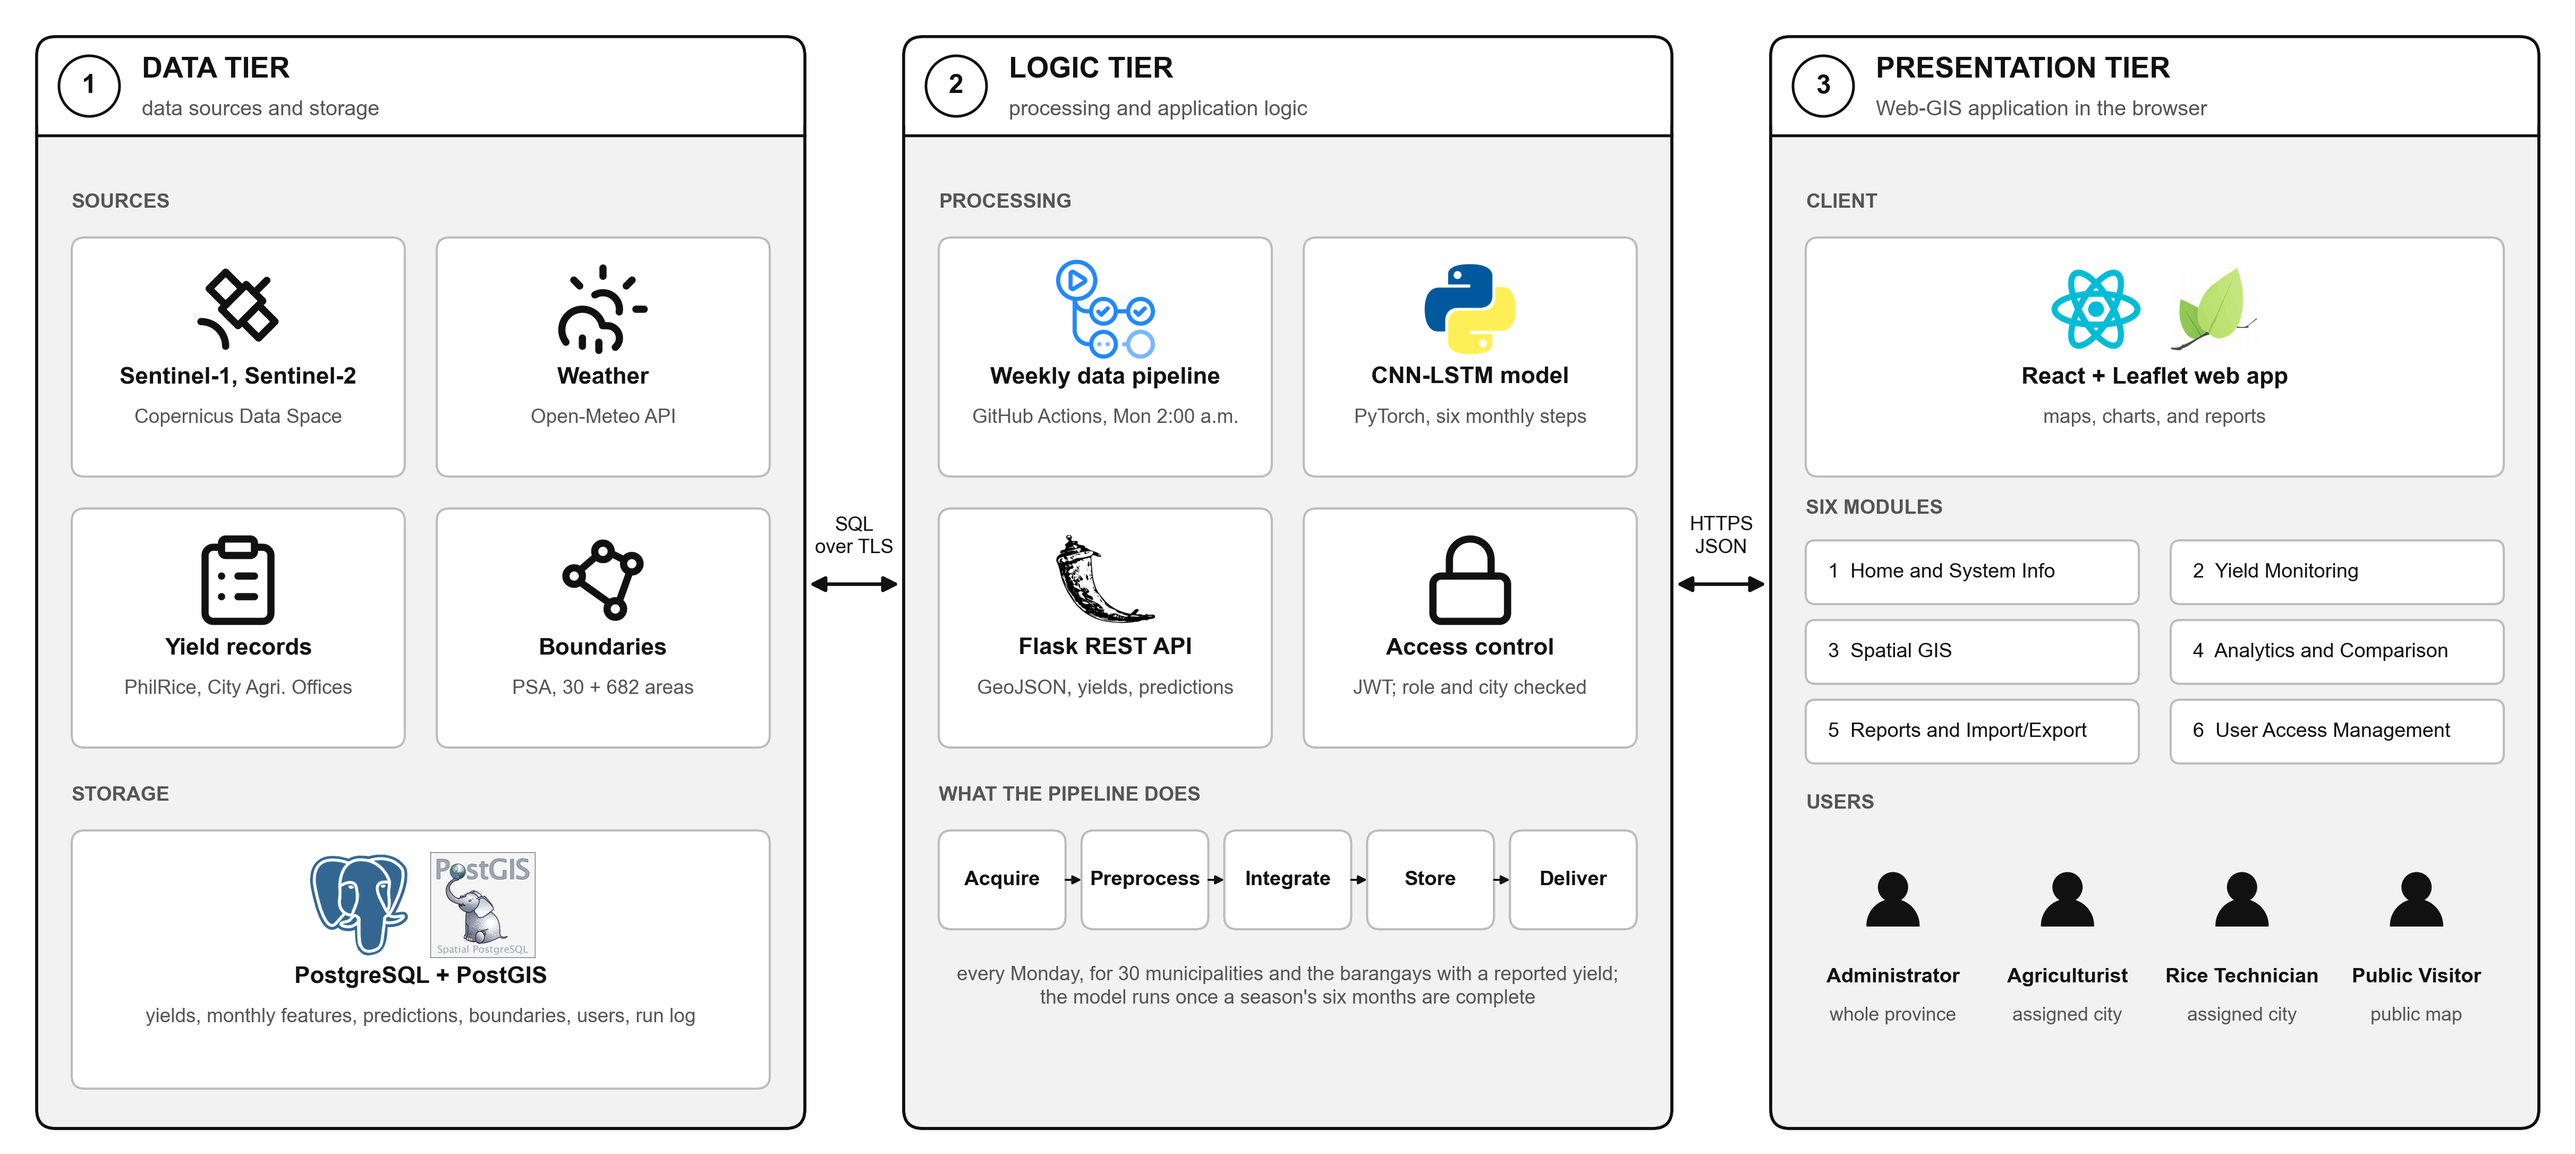
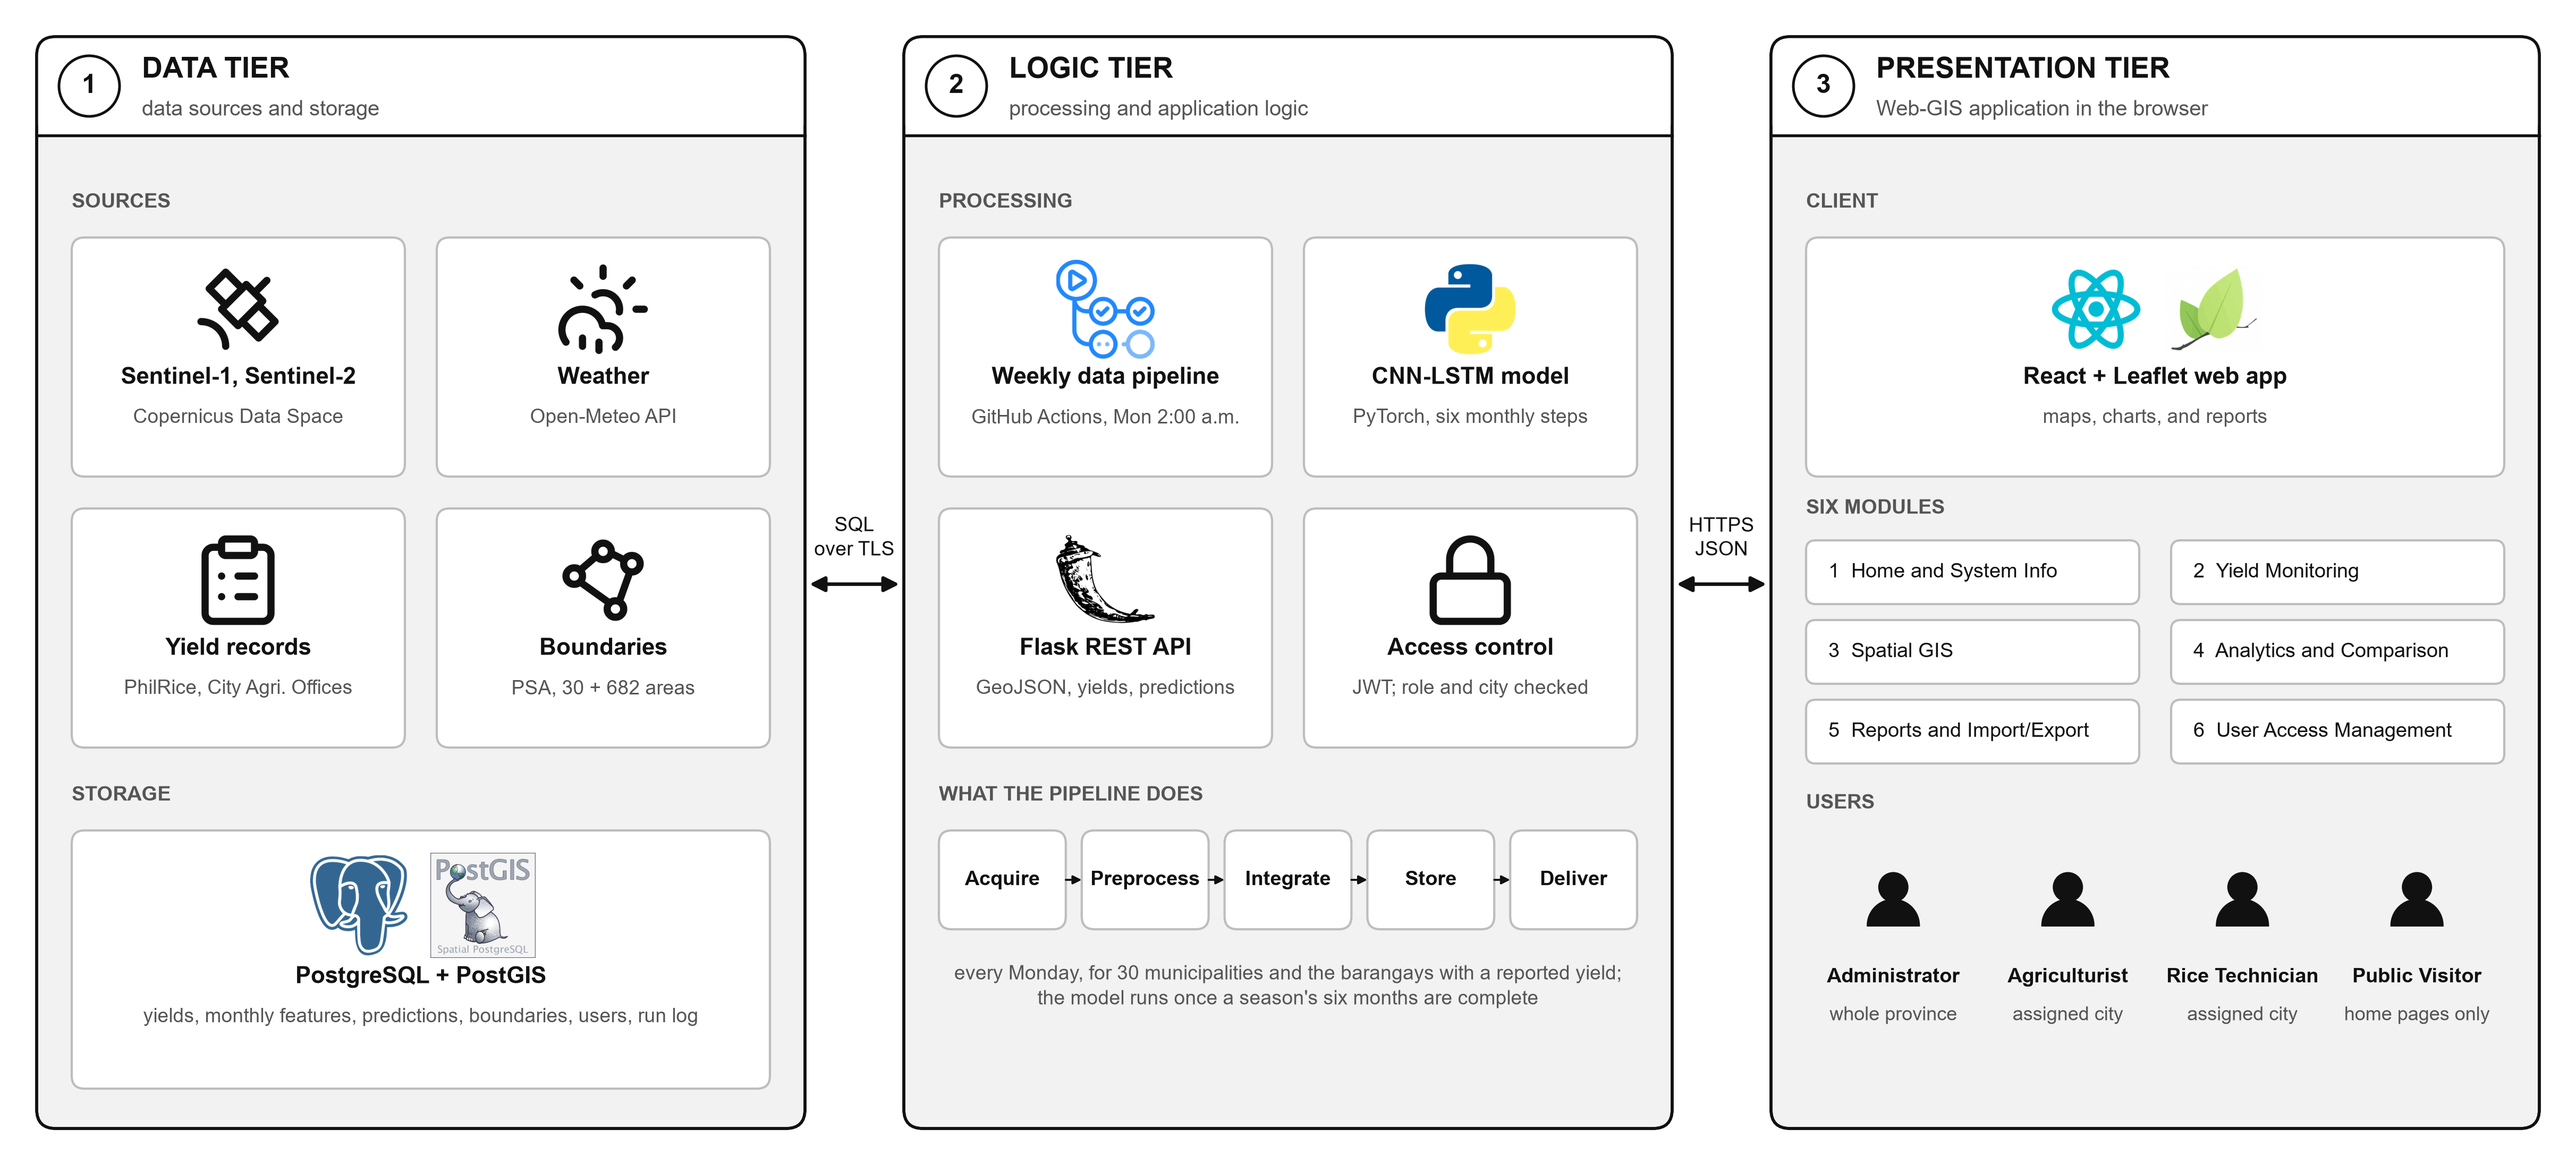
figures: public visitor limited to the home pages in the architecture, use case, and data flow diagrams

diff --git a/docs/figures/make_use_case.py b/docs/figures/make_use_case.py
@@ -1,0 +1,156 @@
+"""
+make_use_case.py
+================
+
+UML use case diagram of AgriKA-GIS for the defense slides, drawn from the route
+guards in src/App.jsx, NAV_BY_ROLE in src/components/layout/DashboardSidebar.jsx and
+what each module page offers:
+
+    administrator     monitoring, map, compare, reports and import, user management
+    agriculturist     monitoring, map, compare, reports and import (assigned city)
+    rice_technician   monitoring, map, reports and import (assigned city)
+    public visitor    home pages only (post-defense revision: the yield map is for signed-in users)
+
+Drawn like the earlier Figure 11: black and white, a tall system boundary, round
+use cases, arrows from the actors, and <<include>> steps on the right.
+
+    fig_use_case.png
+
+Usage
+    python docs/figures/make_use_case.py
+"""
+import math
+import os
+import textwrap
+
+import matplotlib
+
+matplotlib.use("Agg")
+import matplotlib.pyplot as plt
+from matplotlib.patches import Circle, FancyArrowPatch, Rectangle
+
+HERE = os.path.dirname(os.path.abspath(__file__))
+plt.rcParams.update({"font.family": ["Arial", "DejaVu Sans"]})
+
+INK = "black"
+W_IN, H_IN = 5.6, 7.6
+
+fig = plt.figure(figsize=(W_IN, H_IN), dpi=300)
+ax = fig.add_axes([0, 0, 1, 1])
+ax.set_xlim(0, W_IN)
+ax.set_ylim(0, H_IN)
+ax.set_aspect("equal")
+ax.axis("off")
+
+# tall system boundary
+BX0, BX1, BY0, BY1 = 1.45, 5.5, 0.05, 7.55
+ax.add_patch(Rectangle((BX0, BY0), BX1 - BX0, BY1 - BY0, fc="white", ec=INK, lw=1.0, zorder=0))
+ax.text((BX0 + BX1) / 2, BY1 - 0.18, "AgriKA-GIS", ha="center", va="center", fontsize=10, fontweight="bold")
+
+# base use cases (left column) and included steps (right column), top to bottom
+BASE = [
+    "View Home and System Information",
+    "Log In to Portal",
+    "View Rice Yield Heatmap",
+    "Monitor Rice Yield",
+    "Import Yield Records",
+    "Generate Yield Reports",
+    "Analyze and Compare Yields",
+    "Manage User Accounts",
+]
+INCL = [
+    "Verify Role and Assigned City",
+    "Search Municipality or Barangay",
+    "Switch Observed, Predicted, Residual",
+    "Apply Season and Year Filters",
+    "View Historical Trends",
+    "Validate and Preview Rows",
+    "Export as PDF, Excel, or CSV",
+    "Generate Comparison Charts",
+    "Assign Role and Municipality",
+]
+INCLUDES = [
+    ("Log In to Portal", "Verify Role and Assigned City"),
+    ("View Rice Yield Heatmap", "Search Municipality or Barangay"),
+    ("View Rice Yield Heatmap", "Switch Observed, Predicted, Residual"),
+    ("View Rice Yield Heatmap", "Apply Season and Year Filters"),
+    ("Monitor Rice Yield", "Apply Season and Year Filters"),
+    ("Monitor Rice Yield", "View Historical Trends"),
+    ("Import Yield Records", "Validate and Preview Rows"),
+    ("Generate Yield Reports", "Export as PDF, Excel, or CSV"),
+    ("Analyze and Compare Yields", "Generate Comparison Charts"),
+    ("Manage User Accounts", "Assign Role and Municipality"),
+]
+
+POS = {}
+
+
+def usecase(name, cx, cy, r, fs):
+    ax.add_patch(Circle((cx, cy), r, fc="white", ec=INK, lw=0.9, zorder=2))
+    ax.text(cx, cy, textwrap.fill(name, 12), ha="center", va="center", fontsize=fs,
+            linespacing=1.1, zorder=3)
+    POS[name] = (cx, cy, r)
+
+
+R_BASE, R_INCL = 0.40, 0.37
+for i, name in enumerate(BASE):
+    usecase(name, 2.45, 6.85 - i * 0.905, R_BASE, 7.6)
+for i, name in enumerate(INCL):
+    usecase(name, 4.55, 6.92 - i * 0.81, R_INCL, 7.0)
+
+
+def rim(name, toward, max_deg=30):
+    """Point on the circle facing `toward`, kept within max_deg of the left/right edge
+    so a line never cuts the neighbouring circles."""
+    cx, cy, r = POS[name]
+    left = toward[0] < cx
+    ang = math.degrees(math.atan2(toward[1] - cy, abs(toward[0] - cx)))
+    ang = max(-max_deg, min(max_deg, ang))
+    a = math.radians(ang)
+    return (cx - r * math.cos(a) if left else cx + r * math.cos(a)), cy + r * math.sin(a)
+
+
+def arrow(a, b, dashed=False):
+    ax.add_patch(FancyArrowPatch(a, b, arrowstyle="-|>,head_length=5,head_width=2.6", color=INK,
+                                 lw=0.75, linestyle=(0, (3, 2)) if dashed else "-", zorder=1,
+                                 shrinkA=0, shrinkB=0.5, mutation_scale=1))
+
+
+for base, inc in INCLUDES:
+    bx, by, _ = POS[base]
+    ix, iy, _ = POS[inc]
+    a, b = rim(base, (ix, iy)), rim(inc, (bx, by))
+    arrow(a, b, dashed=True)
+    mx, my = (a[0] + b[0]) / 2, (a[1] + b[1]) / 2
+    ax.text(mx, my + 0.05, "«include»", ha="center", va="bottom", fontsize=5.6, zorder=3,
+            bbox=dict(fc="white", ec="none", pad=0.3))
+
+
+def actor(x, y, name):
+    """Stick figure with its feet at y; returns the point the arrows leave from."""
+    s = 0.21
+    ax.add_patch(Circle((x, y + 2.55 * s), 0.38 * s, fc="white", ec=INK, lw=1.0, zorder=3))
+    kw = dict(color=INK, lw=1.0, zorder=3, solid_capstyle="round")
+    ax.plot([x, x], [y + 2.17 * s, y + 1.0 * s], **kw)                       # body
+    ax.plot([x - 0.75 * s, x + 0.75 * s], [y + 1.85 * s] * 2, **kw)          # arms
+    ax.plot([x - 0.6 * s, x, x + 0.6 * s], [y, y + 1.0 * s, y], **kw)        # legs
+    ax.text(x, y - 0.08, name, ha="center", va="top", fontsize=8.5)
+    return x + 0.18, y + 1.6 * s
+
+
+REGISTERED = ["Log In to Portal", "View Rice Yield Heatmap", "Monitor Rice Yield",
+              "Import Yield Records", "Generate Yield Reports"]
+ACTORS = [
+    ("Public Visitor", 6.25, ["View Home and System Information"]),
+    ("Rice Technician", 4.45, REGISTERED),
+    ("Agriculturist", 2.65, REGISTERED + ["Analyze and Compare Yields"]),
+    ("Administrator", 0.85, REGISTERED + ["Analyze and Compare Yields", "Manage User Accounts"]),
+]
+for name, y, cases in ACTORS:
+    start = actor(0.6, y, name)
+    for c in cases:
+        arrow(start, rim(c, start))
+
+out = os.path.join(HERE, "fig_use_case.png")
+fig.savefig(out, dpi=300, facecolor="white")
+print("wrote", out)

diff --git a/docs/figures/make_dfd.py b/docs/figures/make_dfd.py
@@ -18,8 +18,11 @@ Drawn from the code, not from the proposal:
     backend/scripts/predict_season.py    CNN-LSTM forecast of a completed season -> predictions
     backend/yields.py, features.py,
     boundaries.py (GET)                  maps, residuals (observed - predicted, computed on request),
-                                         trends, comparison; the public map needs no sign-in
+                                         trends, comparison; signed-in users only
     src/components/reports               PDF / Excel / CSV reports, incl. the data import history
+
+Post-defense revision: the yield map is no longer shown to the public, so the Public Visitor has no
+rice-data flow left and is not drawn (the home pages are static information).
 
 Rules followed (Gane & Sarson; Lucid DFD tutorial): every flow starts or ends at a process;
 no entity-to-store, store-to-store, or entity-to-entity flow; every process and store has an
@@ -151,7 +154,6 @@ def context():
     d.process("P0", cx, cy, w, h, "0", "AgriKA-GIS\nSpatial Decision-Support\nSystem")
     L, R, T, B = cx - w / 2, cx + w / 2, cy + h / 2, cy - h / 2
     d.entity("E1", 1.15, cy, 1.85, 1.6, "Authorized\nPersonnel\n\n(Administrator,\nAgriculturist,\nRice Technician)")
-    d.entity("E2", cx, 0.55, 1.9, 0.5, "Public Visitor")
     d.entity("E3", 10.25, cy + 0.65, 1.85, 0.8, "Copernicus Data\nSpace (Sentinel\nHub API)")
     d.entity("E4", 10.25, cy - 0.65, 1.85, 0.5, "Open-Meteo API")
     d.entity("E5", 10.25, 1.35, 1.85, 0.6, "PSA Boundary\nData")
@@ -160,8 +162,6 @@ def context():
          "login credentials, account details,\nyield record files, map selections,\nreport requests", ((e1r + L) / 2, cy + 0.85))
     path(d, [(L, cy - 0.25), (e1r, cy - 0.25)],
          "signed token, account list,\nimport summaries, maps, residuals,\ncharts, PDF / Excel / CSV reports", ((e1r + L) / 2, cy - 0.85))
-    path(d, [(cx - 0.45, 0.8), (cx - 0.45, B)], "map\nselections", (cx - 1.0, 1.75))
-    path(d, [(cx + 0.1, B), (cx + 0.1, 0.8)], "public\nyield map", (cx + 0.6, 1.75))
     path(d, [(R, cy + 0.8), (er, cy + 0.8)], "area and month requests", ((R + er) / 2, cy + 1.02))
     path(d, [(er, cy + 0.5), (R, cy + 0.5)], "Sentinel-1/2 monthly statistics", ((R + er) / 2, cy + 0.28))
     path(d, [(R, cy - 0.5), (er, cy - 0.5)], "area and month requests", ((R + er) / 2, cy - 0.28))
@@ -180,7 +180,6 @@ def level1(lbl=7.4, name=8.6, out="fig_dfd_level1.png"):
     YT, YM, YB = 7.9, 5.3, 2.4          # top, middle, bottom rows
     # external entities
     d.entity("E1", 0.95, 5.15, 1.55, 6.6, "Authorized\nPersonnel\n\n(Administrator,\nAgriculturist,\nRice Technician)")
-    d.entity("E2", 5.25, 0.55, 1.9, 0.5, "Public Visitor")
     d.entity("E3", 17.35, 8.45, 1.8, 0.8, "Copernicus Data\nSpace (Sentinel\nHub API)")
     d.entity("E4", 17.35, 7.15, 1.8, 0.5, "Open-Meteo API")
     d.entity("E5", 17.35, YB, 1.8, 0.65, "PSA Boundary\nData")
@@ -239,8 +238,6 @@ def level1(lbl=7.4, name=8.6, out="fig_dfd_level1.png"):
     # --- 5.0 Present maps, analytics, and reports
     path(d, [(e1r, YB + 0.2), (p5l, YB + 0.2)], "map selections,\nreport requests", ((e1r + p5l) / 2, YB + 0.55))
     path(d, [(p5l, YB - 0.2), (e1r, YB - 0.2)], "maps, residuals,\ncharts, reports", ((e1r + p5l) / 2, YB - 0.55))
-    path(d, [(4.95, 0.8), (4.95, bot(YB))], "map\nselections", (4.45, 1.36))
-    path(d, [(5.55, bot(YB)), (5.55, 0.8)], "public\nyield map", (6.08, 1.36))
     path(d, [(6.3, s_bot), (6.3, top(YB))], "observed and\npredicted yields", (6.3 - 0.75, (s_bot + top(YB)) / 2))
     path(d, [(10.75 - SW / 2, YB), (p5r, YB)], "boundaries", ((10.75 - SW / 2 + p5r) / 2, YB + 0.22))
     path(d, [(13.85, s_bot), (13.85, 3.6), (7.0, 3.6), (7.0, top(YB))], "environment layers", (9.6, 3.6))

diff --git a/docs/figures/make_architecture.py b/docs/figures/make_architecture.py
@@ -165,7 +165,7 @@ for k, m in enumerate(mods):
     ax.text(mx + 0.14, yy - 0.2, m, va="center", fontsize=9.1, color=INK)
 label(x + PAD, my - 1.5 - 0.15, "USERS")
 roles = [("Administrator", "whole province"), ("Agriculturist", "assigned city"),
-         ("Rice Technician", "assigned city"), ("Public Visitor", "public map")]
+         ("Rice Technician", "assigned city"), ("Public Visitor", "home pages only")]
 rw = (TW - 2 * PAD) / 4
 ry = my - 1.5 - 0.62
 for k, (role, scope) in enumerate(roles):
